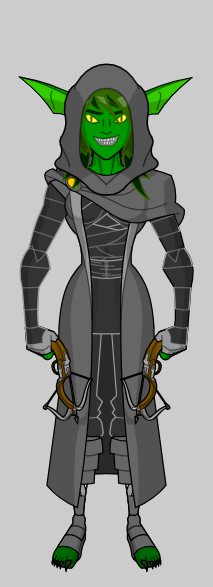
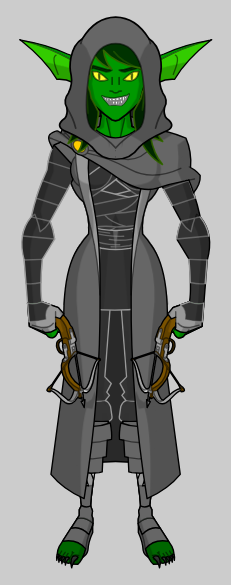
correcting rotation bug

diff --git a/apps/outfitter/scripts/outfitter-svg.js b/apps/outfitter/scripts/outfitter-svg.js
@@ -184,7 +184,7 @@ namespace('sp.outfitter.OutfitterSVG',{
       if (part.layers.shadow) {
         group.push(`<use href="#${part.layers.shadow }" stroke="none"/>`);
       }
-      return `<g opacity="${layer.opacity || 1.0}" transform="matrix(${flipX},0.0,0.0,${flipY},${moveX},${moveY})  rotate(${layer.rotate || 0}, ${cx}, ${cy})">${group.join('')}</g>`
+      return `<g opacity="${layer.opacity || 1.0}" transform="rotate(${layer.rotate || 0}, ${cx}, ${cy}) matrix(${flipX},0.0,0.0,${flipY},${moveX},${moveY})">${group.join('')}</g>`
     });
     const { minX, minY, width, height, frameWidth, frameHeight} = getImgDim(minmax);
     let viewBox = `${minX} ${minY} ${width} ${height}`;
@@ -234,7 +234,7 @@ namespace('sp.outfitter.OutfitterSVG',{
         <g 
           key={`group-${index}`} 
           opacity={layer.opacity || 1.0} 
-          transform={`matrix(${flipX},0.0,0.0,${flipY},${moveX},${moveY}) rotate(${layer.rotate || 0}, ${cx}, ${cy})`}>
+          transform={`rotate(${layer.rotate || 0}, ${cx}, ${cy}) matrix(${flipX},0.0,0.0,${flipY},${moveX},${moveY})`}>
           <title>{ c.getLayerLabel(index,layer) }</title>
           { part.layers.base && <use href={ '#' + part.layers.base } fill={ layer.base || 'white'} stroke="none"/>}
           { part.layers.detail && <use href={ '#' + part.layers.detail } fill={ layer.detail || 'white'}  stroke="none"/>}
